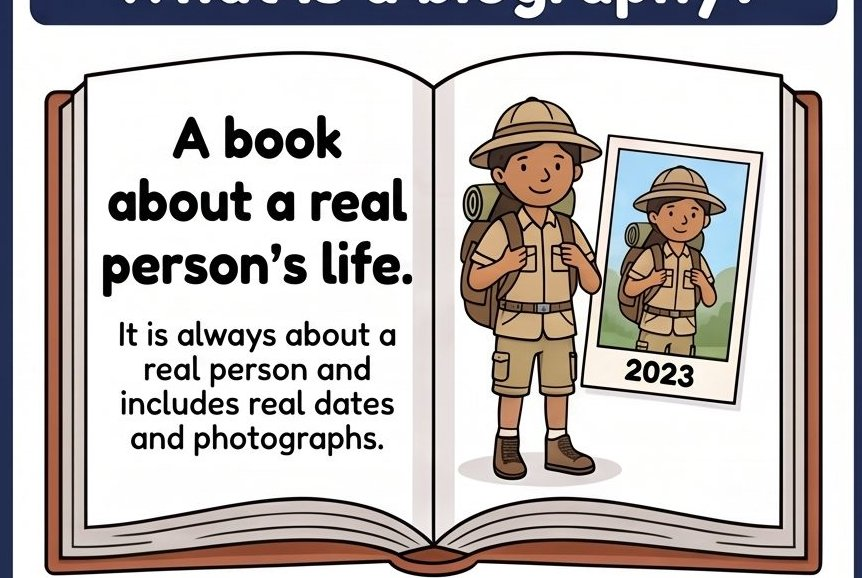
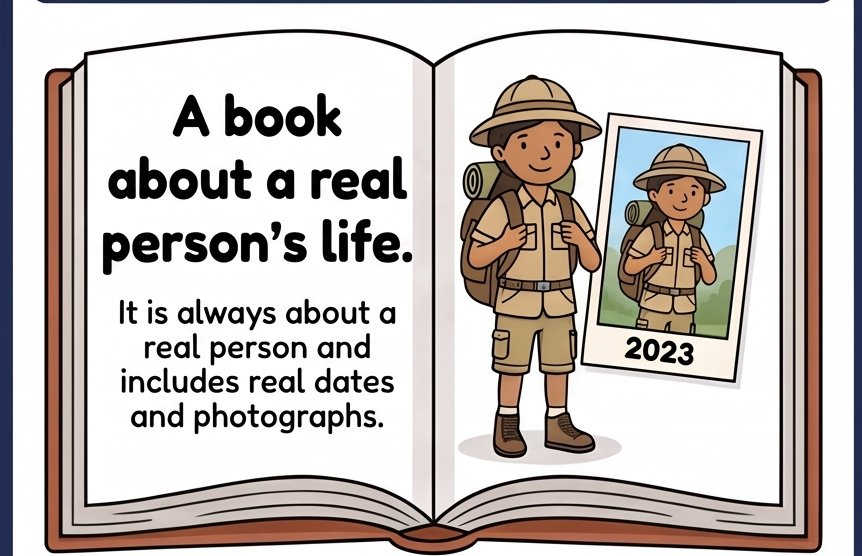
Clear the artwork of labels that sat on top of it
The biography crop kept a sliver of the poster title band along its top
edge, and three hotspots landed on printed text they were repeating -
"A short animal tale" sat squarely over the caption saying the same
thing. Re-cropped below the band, and the labels moved onto the parts of
the picture they actually name.

Claude-Session: https://claude.ai/code/session_01Mc1WEjpy7c8yh3jAZWxW6Z

diff --git a/lib/boardUnits/cambridge-5-english-2.ts b/lib/boardUnits/cambridge-5-english-2.ts
@@ -167,8 +167,8 @@ export const CAMBRIDGE_5_ENGLISH_2: BoardUnit = {
           alt: "An open book about a real person's life, with a photograph dated 2023",
           title: "A book about a real person",
           hotspots: [
-            { label: "A real person", at: [33, 30], note: "Always someone who really lived. Your book's example is Poorna Malavath, the youngest girl to climb Everest. Page 26.", tone: "blue" },
-            { label: "Real dates", at: [76, 66], note: "'Poorna Malavath was born on 10 June 2000 in a village in Telangana, India.' Real, and checkable. Page 26.", tone: "green" },
+            { label: "A real person", at: [63, 48], note: "Always someone who really lived. Your book's example is Poorna Malavath, the youngest girl to climb Everest. Page 26.", tone: "blue" },
+            { label: "Real dates", at: [81, 80], note: "'Poorna Malavath was born on 10 June 2000 in a village in Telangana, India.' Real, and checkable. Page 26.", tone: "green" },
           ],
         },
       },

diff --git a/lib/boardUnits/cambridge-5-english-1.ts b/lib/boardUnits/cambridge-5-english-1.ts
@@ -394,7 +394,7 @@ export const CAMBRIDGE_5_ENGLISH_1: BoardUnit = {
           alt: "Fox, owl and tortoise talking in a forest around an open book marked LESSON",
           title: "A short animal tale",
           hotspots: [
-            { label: "A short animal tale", at: [48, 12], note: "Fables are short on purpose. There is no room for anything that does not carry the lesson.", tone: "blue" },
+            { label: "A short animal tale", at: [21, 88], note: "Fables are short on purpose. There is no room for anything that does not carry the lesson.", tone: "blue" },
             { label: "Animals that talk", at: [27, 44], note: "Fox, Owl and Tortoise speak and argue exactly like people. That is what makes the lesson easy to see.", tone: "gold" },
             { label: "The lesson", at: [48, 74], note: "The moral sits open in the middle of everything, because it is the reason the story exists.", tone: "green" },
           ],
